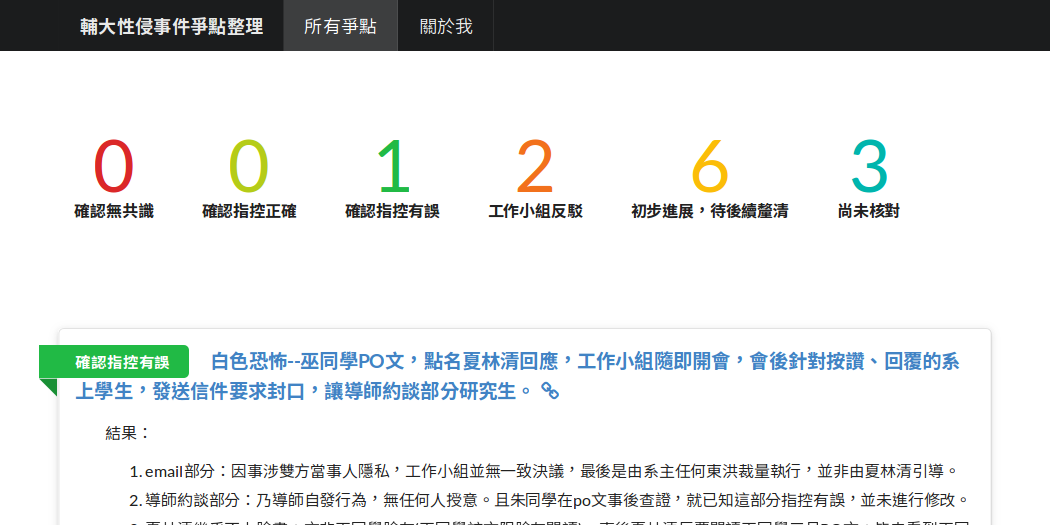
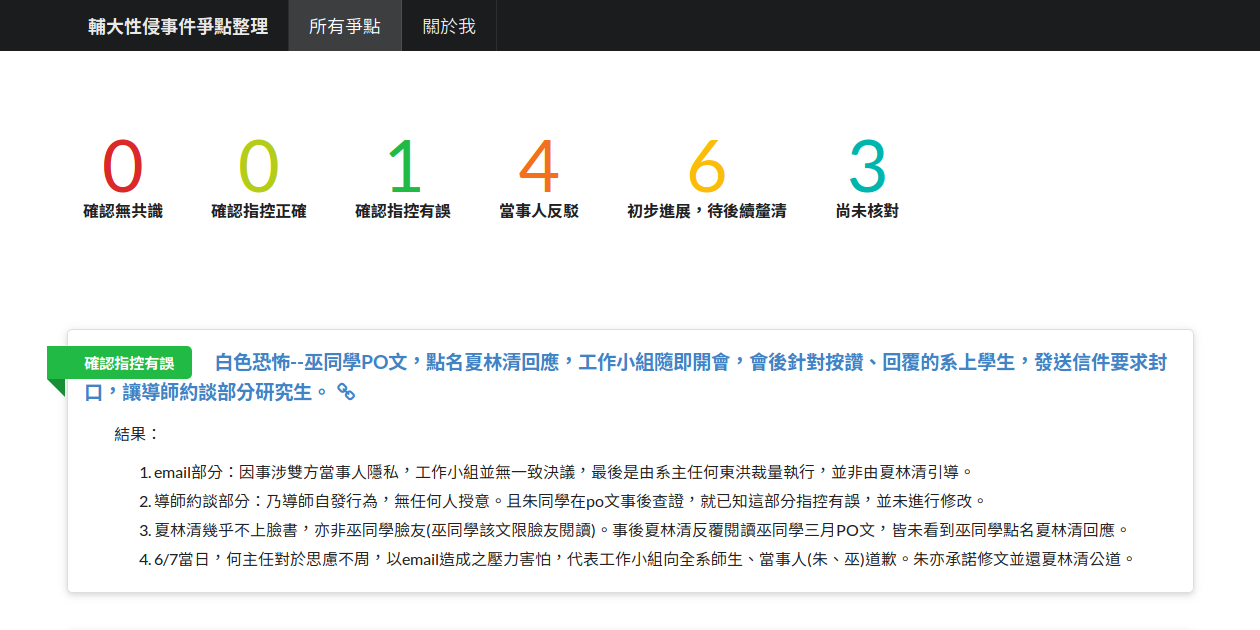
Add 3 additional source, change state 工作小組反駁 to 當事人反駁

diff --git a/src/render/白色恐怖.html b/src/render/白色恐怖.html
@@ -6,7 +6,7 @@ src: 朱原文第31-32段
 status: 確認指控有誤
 result: <ol><li>email部分：因事涉雙方當事人隱私，工作小組並無一致決議，最後是由系主任何東洪裁量執行，並非由夏林清引導。</li><li>導師約談部分：乃導師自發行為，無任何人授意。且朱同學在po文事後查證，就已知這部分指控有誤，並未進行修改。 </li><li>夏林清幾乎不上臉書，亦非巫同學臉友(巫同學該文限臉友閱讀)。事後夏林清反覆閱讀巫同學三月PO文，皆未看到巫同學點名夏林清回應。</li><li>6/7當日，何主任對於思慮不周，以email造成之壓力害怕，代表工作小組向全系師生、當事人(朱、巫)道歉。朱亦承諾修文並還夏林清公道。</li></ol>
 reason: ""
-reasonSrc: <ol><li>針對 email部分，系主任何東洪發言原文<ul><li>「各位同學還有老師們，我們針對今年三月，那個巫同學 po 文，然後我們小組在面對這件事情的時候。 基於我們對於這個 po 文，我們該怎麼回應這件事情，有很大的激辯，但沒有達成一致的決議，當時也沒有，小組其實也解散了，那我基於一個系主任，當時基於一個系主任的立場，我認為這件事情，只考慮到，這件事情還在進行中， 對當事人的隱私，以及這件事的敏感度。所以就用心理系系主任暨前工作小組召集人的名義，寫了 Email，給按讚裡面系上的同學跟畢業的同學，這件事情引起後來大家很大的反彈。</li><li>這個反彈包括剛剛所描述的，形成了某一種，大家認為的，非常普遍瀰漫的某一種壓迫，甚至是恐懼，在這個網路性的世代用白色恐怖去稱呼他(指壓迫)， 也造成大家很多心理上的陰影，也影響到，間接或直接影響到心理系好不容易建 立出來的的這種互信以及大家可以在這個過程裡面，講真話或著沒有任何的恐懼 之下可以把心裡的話講出來這件事，我代表心理系對各位同學跟老師道歉(面群眾鞠躬)。」（p173）   </li></ul></li><li>針對導師約談部分朱同學承認，5/29臉書PO文後經查證，其中一位被約談的同學A，已經推翻其「工作小組授意導師&quot;約談&quot;學生」之說法。原本同學A跟朱說時，同學A解讀導師發言，以為導師不能拒絕的是&quot;約談&quot;這個命令，但同學A事後重新回顧後認為，導師不能拒絕的是&quot;寄email&quot;而非&quot;約談&quot;。朱同學發言原文如下：「那個學生他當下告訴我的時候他也有一點點恐慌，所以他當時以為他老師，不能拒絕，是不能拒絕是約談這個命令，然後在我再一次詢問他的時候，他回溯了當時的通話的記錄，他說他老師是在工作小組裡面明確表示了反對寄 Email 這個動作，而他的導師無法拒絕這個要求，對，這個部分。」...(略)夏林清：「我透過成員乙我跟成員戊老師通了Wechat，成員戊老師 Wechat 還在我手機裡，成員戊老師很清楚說，我把你的文章 PO 給他，他很清楚的講法，是他覺得很詭異，他說沒有人要他約。」朱同學：「所以成員戊老師也是個人行為。」(p53-54)</li><li>夏林清幾乎不上臉書，亦非巫同學臉友(巫同學該文限臉友閱讀)。事後夏林清反覆閱讀巫同學三月PO文，皆未看到巫同學點名夏林清回應。（P36）</li><li>6/7當日，何主任對於思慮不周，email造成之壓力害怕，代表工作小組向全系師生、當事人(朱、巫)道歉。朱亦承諾修文並還夏林清公道。（P173）</li></ol>
+reasonSrc: <ol><li>針對 email部分，系主任何東洪發言原文<ul><li>「各位同學還有老師們，我們針對今年三月，那個巫同學 po 文，然後我們小組在面對這件事情的時候。 基於我們對於這個 po 文，我們該怎麼回應這件事情，有很大的激辯，但沒有達成一致的決議，當時也沒有，小組其實也解散了，那我基於一個系主任，當時基於一個系主任的立場，我認為這件事情，只考慮到，這件事情還在進行中， 對當事人的隱私，以及這件事的敏感度。所以就用心理系系主任暨前工作小組召集人的名義，寫了 Email，給按讚裡面系上的同學跟畢業的同學，這件事情引起後來大家很大的反彈。</li><li>這個反彈包括剛剛所描述的，形成了某一種，大家認為的，非常普遍瀰漫的某一種壓迫，甚至是恐懼，在這個網路性的世代用白色恐怖去稱呼他(指壓迫)， 也造成大家很多心理上的陰影，也影響到，間接或直接影響到心理系好不容易建 立出來的的這種互信以及大家可以在這個過程裡面，講真話或著沒有任何的恐懼 之下可以把心裡的話講出來這件事，我代表心理系對各位同學跟老師道歉(面群眾鞠躬)。」（p173）   </li></ul></li><li>針對導師約談部分朱同學承認，5/29臉書PO文後經查證，其中一位被約談的同學A，已經推翻其「工作小組授意導師&quot;約談&quot;學生」之說法。原本同學A跟朱說時，同學A解讀導師發言，以為導師不能拒絕的是&quot;約談&quot;這個命令，但同學A事後重新回顧後認為，導師不能拒絕的是&quot;寄email&quot;而非&quot;約談&quot;。朱同學發言原文如下：「那個學生他當下告訴我的時候他也有一點點恐慌，所以他當時以為他老師，不能拒絕，是不能拒絕是約談這個命令，然後在我再一次詢問他的時候，他回溯了當時的通話的記錄，他說他老師是在工作小組裡面明確表示了反對寄 Email 這個動作，而他的導師無法拒絕這個要求，對，這個部分。」...(略)夏林清：「我透過成員乙我跟成員戊老師通了Wechat，成員戊老師 Wechat 還在我手機裡，成員戊老師很清楚說，我把你的文章 PO 給他，他很清楚的講法，是他覺得很詭異，他說沒有人要他約。」朱同學：「所以成員戊老師也是個人行為。」(p53-54)</li><li>夏林清幾乎不上臉書，亦非巫同學臉友(巫同學該文限臉友閱讀)。事後夏林清反覆閱讀巫同學三月PO文，皆未看到巫同學點名夏林清回應。（P36）</li><li>6/7當日，何主任對於思慮不周，email造成之壓力害怕，代表工作小組向全系師生、當事人(朱、巫)道歉。朱亦承諾修文並還夏林清公道。（P173）</li></ol><p>原文皆來自 <a href="https://goo.gl/VfYV3W">0607 討論逐字稿</a></p>
 comment: ""
 commentSrc: ""
 order: 1

diff --git a/src/render/鄭因母介入.html b/src/render/鄭因母介入.html
@@ -1,0 +1,13 @@
+---
+title: 鄭小塔是由於夏林清介入此案的關係，所以才介入，企圖阻止當事人走法律程序，並企圖延緩作筆錄，以讓系上有時間介入。
+layout: issue
+isIssue: true
+src: 朱原文：「當晚夏林清的女兒鄭小塔也來關心我們，講話的重點落在性侵的法律流程十分冗長與折磨人（這個部分她是對的），是不是真的要走法，如果讓系上處理，搞不好有更妥當的處理。性侵是非告訴，報警的當下已不存在不走的可能。鄭則繼續建議我們不要先做筆錄，給系上一點時間處理，讓沛瑀先休息。」
+status: 當事人反駁
+result: <p> 鄭小塔表示</p><ol><li>她主要是因為在 318 運動開始，與朱結為朋友，才在知道此事後進入協助。</li><li>「性侵是非告訴乃論」是鄭小塔告訴朱巫的，她沒有也不可能阻止當事人進入法律程序。</li><li>建議休息是怕當事人忙中有錯，反不利自身，而且事發第二天當事人就去作筆錄了。</li></ol>
+reason: ""
+reasonSrc: <ol><li>我其實是更早就認識朱同學,並不是一個夏林清女兒的位置進場關心這件事情,而是一個友伴關係,我其實是在 2014 年的 318 太陽花學運認識朱同學的,也是同時認識了巫同學,我們其實有一個長達快要一年的團體聚會,密集的團體聚會大概半年 <strong><a href="https://goo.gl/kaFn67">0620 輔仁大學不能自辦公共對話場之閒聊</a> p30</strong></li><li>我剛剛說了,我認為是友伴關係,那第一時間為什麼在 6 月 28 我會進場,是當天靠近中午的時候,我接到蔡桓庚同學的電話,所以我打給,就直接打給朱同學。其實蔡桓庚同學並沒有告訴我太多訊息,他只說出了事情,而且頗為嚴重。<strong><a href="https://goo.gl/kaFn67">0620 輔仁大學不能自辦公共對話場之閒聊</a> p32</strong></li><li>如果就 529 的文本,其實有兩個點我可以...哎,我並沒有,我的角色並沒有延緩性平跟法律,這是我的回答,如果沒有更多的舉證,我不會在現場進入對話。因為其他的我會在文本裡面回答。<strong><a href="https://goo.gl/kaFn67">0620 輔仁大學不能自辦公共對話場之閒聊</a> p32</strong></li><li><strong><a href="https://goo.gl/sAJUW9">0620當天鄭小塔彌封版本--學了寶貴的一刻—鄭小塔在輔大性侵案中的行動，回應朱文的指控</a></strong></li></ol><p>關於法律流程的冗長與折磨，朱臉文也說這部分我是對的。但朱文接下來指控我有說：「是不是真的要走法，如果讓系上處理，搞不好有更妥當的處理。」這完全不是事實。我是在當時的協助脈絡關係情境下，告知他們相關的法律知識和程序，報警就已經進入司法程序了，任誰也沒有辦法撤銷，何況「性侵是非告訴乃論」也是我告訴朱、巫的，我怎麼可能建議他們先不要走法律途徑？有一點法律常識都知道，這種建議是荒誕的，他怎能憑空編出我說這種話？事件真實脈絡已如我上述，他為什麼都把這些情景抹煞，憑空跳出一句就來定罪？ </p><p>同時，朱文又說我「鄭則繼續建議我們不要先做筆錄，給系上一點時間處理，讓沛瑀先休息。」這更是扭曲事實。當時我建議他們休息後再去做筆錄的原意已如上述，是為了在法律上讓巫能更站得住腳，怕他們忙中有錯，反不利自己，才給了一個當時我認為最好的建議，他們也聽進去了。快一年後，朱為文怎可如此變造扭曲？朱文這部分完全是自己編織添加的，沒有較完整的回溯當時實況，我非常不以為然。朱、巫請站出來對質，628晚上在巫家，我們到底真實發生了什麼？</p><p>關於筆錄，我再舉個事實，實際上朱、巫第二天就去新莊警局做筆錄了，又不是三天、五天之後，甚至延到工作小組成立的十幾天後才去做，那還勉強構得上是有被延誤，這點朱文也隻字未提，讀者還以為被延誤了，所以，朱文的手法讓人以為筆錄好像真被我延擱了，目的是為了要讓「系上處理」。這樣的敘述手法都是採取刻意掩藏很多真正發生的事實，編造或摘取一小段，去納入他要指控的故事，產生他要的效果。而這樣的文章還引起這麼多人相信，朱文手法之高，令人不寒而慄。</p>
+comment: ""
+commentSrc: ""
+order: 1
+---

diff --git a/src/render/私利吃案.html b/src/render/私利吃案.html
@@ -6,7 +6,7 @@ src: 朱文形塑出之"夏林清"形象
 status: 初步進展，待後續釐清
 result: <ol><li>工作小組成員均反駁「夏主導工作小組」的說法。</li><li>朱同學「有聽到工作小組成員認為他們沒有受到夏林清影響力的影響」，但朱同學保留在713核對後，若證明夏林清為了私利河蟹性侵案，回頭推翻此共識的空間。</li></ol>
 reason: ""
-reasonSrc: <ol><li><p>工作小組成員有五人發言（不含夏），反駁工作小組由夏林清主導，而是討論與激辯後的共識決，並共同承擔。成員乙這麼說：「我們都是共同討論出來的，那我們曾經在裡面也會吵得滿兇的，但是最後的決議都是工作小組最後一起出來的決議，所以我不知道為什麼會有，就是，我不知道為什麼會有夏老師主導這個，這個語言出來」（p43－44）</p></li><li><p>對於夏林清主控專斷部分，朱同學認為有兩個共識、一個但書。「那我再個人陳述一下好了，我聽到了工作小組的成員，他們都認為，他們沒有受到夏老師的影響，對我聽到了，然後我同意夏老師說的，就是角色影響力跟權力有差別，角色的影響力來自他的資歷，對，而權力來自於你的行政位置，對。然後這兩個是我同意，而第三個我們的矛盾點停在,我不知道，而因為我們對於 7.13 的對話有誤差，而我現在仍堅持對於 7.13 對話的認知，所以我認為夏老師有需求使用他的影響力，成為某一種權力，影響工作小組的決策，對如果我最後依然堅持我對 7.13 的認知的話，可能反過來會回到(得證)第一點，我可能會覺得那個影響力確實作用到工作小組那群人身上，如果是 OK 的話，那這兩點就都OK（p125）</p></li><li><p>工作小組召集人何東洪表達不同意河蟹說，並以工作小組前召集人的身分表示：「我說如果今天我們假設今天這個事情、如果他所有的源頭是7月13號，那麼我們 7 月13號完了之後我們工作小組，我們在幹嘛？你是有跟我們合作關係，你的想像是跟我們合作關係...」但巫同學亦反駁說：「這兩件事不要扯在一起...」（p108）</p></li></ol>
+reasonSrc: <ol><li><p>工作小組成員有五人發言（不含夏），反駁工作小組由夏林清主導，而是討論與激辯後的共識決，並共同承擔。成員乙這麼說：「我們都是共同討論出來的，那我們曾經在裡面也會吵得滿兇的，但是最後的決議都是工作小組最後一起出來的決議，所以我不知道為什麼會有，就是，我不知道為什麼會有夏老師主導這個，這個語言出來」（p43－44）</p></li><li><p>對於夏林清主控專斷部分，朱同學認為有兩個共識、一個但書。「那我再個人陳述一下好了，我聽到了工作小組的成員，他們都認為，他們沒有受到夏老師的影響，對我聽到了，然後我同意夏老師說的，就是角色影響力跟權力有差別，角色的影響力來自他的資歷，對，而權力來自於你的行政位置，對。然後這兩個是我同意，而第三個我們的矛盾點停在,我不知道，而因為我們對於 7.13 的對話有誤差，而我現在仍堅持對於 7.13 對話的認知，所以我認為夏老師有需求使用他的影響力，成為某一種權力，影響工作小組的決策，對如果我最後依然堅持我對 7.13 的認知的話，可能反過來會回到(得證)第一點，我可能會覺得那個影響力確實作用到工作小組那群人身上，如果是 OK 的話，那這兩點就都OK（p125）</p></li><li><p>工作小組召集人何東洪表達不同意河蟹說，並以工作小組前召集人的身分表示：「我說如果今天我們假設今天這個事情、如果他所有的源頭是7月13號，那麼我們 7 月13號完了之後我們工作小組，我們在幹嘛？你是有跟我們合作關係，你的想像是跟我們合作關係...」但巫同學亦反駁說：「這兩件事不要扯在一起...」（p108）</p></li></ol><p>原文皆來自 <a href="https://goo.gl/VfYV3W">0607 討論逐字稿</a></p>
 comment: ""
 commentSrc: ""
 order: 2

diff --git a/src/render/為系譽、延性平！？.html b/src/render/為系譽、延性平！？.html
@@ -6,7 +6,7 @@ src: <ol><li>朱同學原文第3段：「第二天系上得知此事，系主任
 status: 初步進展，待後續釐清
 result: <ol><li>系主任何東洪表示，校方已依法進行性平通報，何亦於事發第三天告知當事人性平申調之權益。</li><li>何東洪表示，工作小組是司法與性平之外的第三補充管道。</li><li>巫同學表示，跟工作小組是合作關係(去年7~9月)。何東洪追問文中何以沒出現？巫坦承是情緒爆炸使然。</li></ol>
 reason: ""
-reasonSrc: <p>以下為系主任何東洪與巫同學發言：</p><ol><li><strong>24小時內性平通報</strong>：「6 月 28 號事件發生，報紙跟校安通報我裡面都有寫，.....學校對於事件當天，當天就通報了。」（P17-18）</li><li><strong>告知當事人申請性平調查權益</strong>：「6 月 30 號我作為系主任，我就告知當事人性平相關權益（P19）.....然後這中間的過程裡面，工作小組在運作過程裡面，我們也有告知他們的那個權益。 ….9 月 30 號當事人就申請調查。」</li><li><strong>工作小組的目標</strong>：「我們在既有法規下本系籌組工作小組，作為補充司法與性平第三管道.....我們的目標，就協助當事人雙方理解事情發生脈絡，這個我們心理系同學都很清楚，對不對？脈絡這件事對我們來講是非常非常重要的，因為事情的發生一定有它前因後果還有相關的這個東西。 第二個負起每個人的行動責任，這邊每個人…對不起，這邊講的每個人不是只有當事人，大家不要以為我們說他們負起責任，不是，是因為我講的這件事所發生的場域跟時間跟地點，恰好就在去年的畢業典禮完的，大家留下來 happy，然後和相關的我們同學。 第三個為做錯事情道歉」（P19-20）</li><li><p>巫同學說，她認為跟工作小組是合作關係。</p><p>何說：是你現在的想像嗎？還是你一直...巫說：我一直都這樣想像，那後來就全部破掉。何說：那為什麼在，在朱文裡面看不出來這個對工作小組的合作關係的描述？巫說：呃我也可以，我的確我那個po文是非常爆炸狀態下的po文，對，這我可以承認。（p65－66）</p></li></ol>
+reasonSrc: <p>以下為系主任何東洪與巫同學發言：</p><ol><li><strong>24小時內性平通報</strong>：「6 月 28 號事件發生，報紙跟校安通報我裡面都有寫，.....學校對於事件當天，當天就通報了。」（P17-18）</li><li><strong>告知當事人申請性平調查權益</strong>：「6 月 30 號我作為系主任，我就告知當事人性平相關權益（P19）.....然後這中間的過程裡面，工作小組在運作過程裡面，我們也有告知他們的那個權益。 ….9 月 30 號當事人就申請調查。」</li><li><strong>工作小組的目標</strong>：「我們在既有法規下本系籌組工作小組，作為補充司法與性平第三管道.....我們的目標，就協助當事人雙方理解事情發生脈絡，這個我們心理系同學都很清楚，對不對？脈絡這件事對我們來講是非常非常重要的，因為事情的發生一定有它前因後果還有相關的這個東西。 第二個負起每個人的行動責任，這邊每個人…對不起，這邊講的每個人不是只有當事人，大家不要以為我們說他們負起責任，不是，是因為我講的這件事所發生的場域跟時間跟地點，恰好就在去年的畢業典禮完的，大家留下來 happy，然後和相關的我們同學。 第三個為做錯事情道歉」（P19-20）</li><li><p>巫同學說，她認為跟工作小組是合作關係。</p><p>何說：是你現在的想像嗎？還是你一直...巫說：我一直都這樣想像，那後來就全部破掉。何說：那為什麼在，在朱文裡面看不出來這個對工作小組的合作關係的描述？巫說：呃我也可以，我的確我那個po文是非常爆炸狀態下的po文，對，這我可以承認。（p65－66）</p></li></ol><p>原文皆來自 <a href="https://goo.gl/VfYV3W">0607 討論逐字稿</a></p>
 comment: ""
 commentSrc: ""
 order: 6

diff --git a/src/render/傳話事件.html b/src/render/傳話事件.html
@@ -3,10 +3,10 @@ title: 工作小組處理蔡生亂傳事件，不利受害者。
 layout: issue
 isIssue: true
 src: 朱原文第15段：8月中，又從已經不在學校一陣子的朋友那裡聽到別人轉述蔡在亂傳事件，我email工作小組我得知了此事，希望能夠知道約談蔡的時間，我也會再問清楚聽到的蔡亂傳事件是何時，我天真地沒有為告訴我的朋友匿名。結果第二天，就聽到了朋友被工作小組電話要求離開事件並閉嘴的消息。
-status: 工作小組反駁
+status: 當事人反駁
 result: 工作小組成員甲表示，對於蔡與傳話人，不管是哪一方立場，皆要求保護當事人隱私、不要兩邊傳話
 reason: ""
-reasonSrc: <p>工作小組成員甲：「說針對這個朱的這篇文章所謂的&quot;蔡生亂傳事件&quot;，朱同學一共有兩次來信給系辦，要求處理，然後來信的時間分別是 7 月 23 號跟 8 月 15 號。 然後針對第一封來信，工作小組約談了蔡生，要求蔡生按照性平保護當事人隱私原則，不要在任何場合談論此事件。然後針對第二封來信，工作小組進行了確認的工作，確認這個事件其實是在工作小組跟蔡生約談之前所發生的一個舊的事件，所以並沒有在亂傳。</p><p>那這個也可以看出來，就是說我們第一次跟蔡生的約談的確是有發揮作用。 然後朱文裡面有一段，就是所謂“結果第二天，就聽到了朋友被工作小組電話要 求離開事件並閉嘴的消息”。但是事實上的實情是，我們並&quot;沒有要求對方離開且閉嘴&quot;，而是我們工作小組的確發了訊息給對方，然後那個具體……」</p><p>朱同學：「還打了電話，還打了電話。」</p><p>成員甲：「具體的文字是，&quot;請不要在兩邊傳話&quot;。然後我們處理的原則一如是處理蔡生的原則，皆是要求符合性平保護當事人隱私的原則。」（P24）</p>
+reasonSrc: <p>工作小組成員甲：「說針對這個朱的這篇文章所謂的&quot;蔡生亂傳事件&quot;，朱同學一共有兩次來信給系辦，要求處理，然後來信的時間分別是 7 月 23 號跟 8 月 15 號。 然後針對第一封來信，工作小組約談了蔡生，要求蔡生按照性平保護當事人隱私原則，不要在任何場合談論此事件。然後針對第二封來信，工作小組進行了確認的工作，確認這個事件其實是在工作小組跟蔡生約談之前所發生的一個舊的事件，所以並沒有在亂傳。</p><p>那這個也可以看出來，就是說我們第一次跟蔡生的約談的確是有發揮作用。 然後朱文裡面有一段，就是所謂“結果第二天，就聽到了朋友被工作小組電話要 求離開事件並閉嘴的消息”。但是事實上的實情是，我們並&quot;沒有要求對方離開且閉嘴&quot;，而是我們工作小組的確發了訊息給對方，然後那個具體……」</p><p>朱同學：「還打了電話，還打了電話。」</p><p>成員甲：「具體的文字是，&quot;請不要在兩邊傳話&quot;。然後我們處理的原則一如是處理蔡生的原則，皆是要求符合性平保護當事人隱私的原則。」（<a href="https://goo.gl/VfYV3W">P24</a>）</p>
 comment: ""
 commentSrc: ""
 order: 5

diff --git a/src/render/蔡選邊站.html b/src/render/蔡選邊站.html
@@ -1,0 +1,13 @@
+---
+title: 蔡同學於事件開始便選邊站，教導王姓當事人如何脫罪。
+layout: issue
+isIssue: true
+src: <ol><li>朱原文：「再晚一點，得知蔡去找王，王承認了所為，並被蔡教導怎麼講脫罪。</li><li>當夜我與蔡電話中發生衝突，蔡承認自己一時走火入魔幫了學弟，在這件事中選了邊站。理由是“覺得我們這邊比較有資源處理自己的情緒，以為鄭小塔來找我們，已經將我們的情緒處理地很好了，而學弟很可憐，都沒有人幫他，所以選邊站。”至此與此人翻臉決裂。」</li><li>「之外半個多月，系上沒有回音。而我則在聖言樓一樓遇到過一次蔡，與其發生口角，被蔡撕爛手裡的證件和衣服，抵在墻角挑釁我打他，在我試圖推開他之後被瘋狂回應我動手了，他要報警，還要告我們誣告他學弟。」</li></ol>
+status: 當事人反駁
+result: <p>蔡同學認為，</p><ol><li>他在去年628案發後，與王、及A學弟碰面，了解王到底發生何事，但不同意朱說他「教導王生脫罪」，也曾在當時邀朱與A學弟一起出來核對，但被朱拒絕。</li><li>他對王同學是關係上的支持，但並沒有因此失去立場上的是非判斷，他認為王有可能是加害者，因此他並不是如朱文寫的「選邊站」。</li></ol>
+reason: ""
+reasonSrc: <ol><li><p>蔡：「我持續的要朱同學,要朱同學出來核對,我說,如果你到現在還是認為我串供,那很簡單,我們找那個現場,王同學跟 A 學弟,他知道所有的內容,如果你認為我串供的話,找 A 學弟出來,是最簡單的,我們三個人出來對,就可以清楚說我有沒有串供這件事情,但他在那個吵架的過程裡面,都沒有回應我,」 <strong><a href="https://goo.gl/kaFn67">0620 輔仁大學不能自辦公共對話場之閒聊</a> p37</strong></p></li><li><p>蔡：「我聽懂,我可以回你,我前面說,事件一開始,不管證據有多少,一被曝光,男生王姓學弟他馬上就會是在加害者位置上,不過我覺得我從頭到尾立場都是一樣,不管事件他做了什麼?事實是什麼,我關係上是會支持,他有可能會犯錯,我一開始就沒有說,他的確不是一個加害者,我從來就不是在這位子上面,作關係上面的支持。」 <strong><a href="https://goo.gl/kaFn67">0620 輔仁大學不能自辦公共對話場之閒聊</a> p42</strong></p></li><li><p>蔡：「因為他(朱)在 714 這個打架事件之前,他對我就非常非常非常的不滿,而我也不想要再勾起他的情緒,因為我認為對這整個事件是沒有幫助的,所以我當下有個判斷是我選擇刻意讓自己沒有表情、沒有任何反應的往前繼續走,而他就是快速的靠近我,但他一樣是伸手打了我,之後就開始有衝突 ......」<strong><a href="https://goo.gl/kaFn67">0620 輔仁大學不能自辦公共對話場之閒聊</a> p36</strong></p></li></ol>
+comment: ""
+commentSrc: ""
+order: 2
+---

diff --git a/src/render/713.html b/src/render/713.html
@@ -6,7 +6,7 @@ src: 朱原文第8段（文長，略）
 status: 初步進展，待後續釐清
 result: <ol><li>下次再舉辦公開師生討論會處理此議題。</li><li>當場對話觸及713的段落詳見出處。</li></ol>
 reason: ""
-reasonSrc: <ol><li>夏提案，自己會負責寫自己的回憶版本，同時把對朱文中不同意的段落標出，然後與三人對話。也邀請當天提問的研究生應細讀朱文，提自己看法。（p73-76）</li><li>至於朱同學懷疑夏林清為了私利吃案，當天有對話一段，系主任何東洪認為若真要吃案，何必成立工作小組？(p108)</li><li>夏與朱對話「權力」與「影響力」的分辨，朱認為角色權力=影響力，朱夏同意某些有影響力的人可能會出於自己的利益需要而使用他的影響力成為權力，朱進而提出推論--夏為了她的私利，而使用影響力來作為權力，來達到性侵案不外露，但夏對此推論不同意，兩人在此有分歧。（p107,103-116,121）</li><li>晚間近十點時，夏林清表示，若713如此重要，那就當場來核對。但朱表示體力無法負荷，改約別天。（P152）</li></ol>
+reasonSrc: <ol><li>夏提案，自己會負責寫自己的回憶版本，同時把對朱文中不同意的段落標出，然後與三人對話。也邀請當天提問的研究生應細讀朱文，提自己看法。（p73-76）</li><li>至於朱同學懷疑夏林清為了私利吃案，當天有對話一段，系主任何東洪認為若真要吃案，何必成立工作小組？(<a href="https://goo.gl/VfYV3W">p108</a>)</li><li>夏與朱對話「權力」與「影響力」的分辨，朱認為角色權力=影響力，朱夏同意某些有影響力的人可能會出於自己的利益需要而使用他的影響力成為權力，朱進而提出推論--夏為了她的私利，而使用影響力來作為權力，來達到性侵案不外露，但夏對此推論不同意，兩人在此有分歧。（p107,103-116,121）</li><li>晚間近十點時，夏林清表示，若713如此重要，那就當場來核對。但朱表示體力無法負荷，改約別天。（<a href="https://goo.gl/VfYV3W">P152</a>）</li></ol>
 comment: ""
 commentSrc: ""
 order: 7

diff --git a/src/render/about.html b/src/render/about.html
@@ -9,8 +9,8 @@ layout: "plain"
 </p>
 
 <p>
-本網站的目標，是透過輔大心理系 06/07 的<a href="https://drive.google.com/drive/folders/0B-k57Xwt4lKiYXlNRHBlc3E4X0k">討論資料</a>來理解，
-那次討論會，究竟回應了本次事件的重要資料（<a href="https://www.facebook.com/notes/zhu-boming/%E9%97%9C%E6%96%BC%E5%B7%AB%E6%B2%9B%E7%91%80%E7%9A%84%E6%80%A7%E4%BE%B5%E4%BA%8B%E4%BB%B6/504696773056061">朱同學的第一篇公開文章</a>）中的哪些爭議，
+本網站的目標，是透過相關人員的陳述、對話（參見文末）來理解，
+這些說法中，究竟回應了本次事件的重要資料（<a href="https://www.facebook.com/notes/zhu-boming/%E9%97%9C%E6%96%BC%E5%B7%AB%E6%B2%9B%E7%91%80%E7%9A%84%E6%80%A7%E4%BE%B5%E4%BA%8B%E4%BB%B6/504696773056061">朱同學的第一篇公開文章</a>）中的哪些爭議，
 哪些起了頭，以及哪些尚未論及。
 希望能藉此，稍微還原此次事件中參與者們，包含了當事人、工作小組，以及輔大心理系成員，
 是如何理解這次事件。
@@ -29,4 +29,11 @@ layout: "plain"
 </p>
 
 
-
+<p>
+目前引用資料：
+<ol>
+	<li>輔大心理系 06/07 的<a href="https://drive.google.com/drive/folders/0B-k57Xwt4lKiYXlNRHBlc3E4X0k">討論資料</a></li>
+	<li>輔大學生 06/20 自辦討論的<a href="https://drive.google.com/file/d/0B9CJMuef4t3IZ0t2cUFYSWdEeWM/view">逐字稿</a></li>
+	<li>鄭小塔於 06/20 討論當天彌封的<a href="https://goo.gl/sAJUW9">聲明</a> </li>
+</ol>
+</p>
